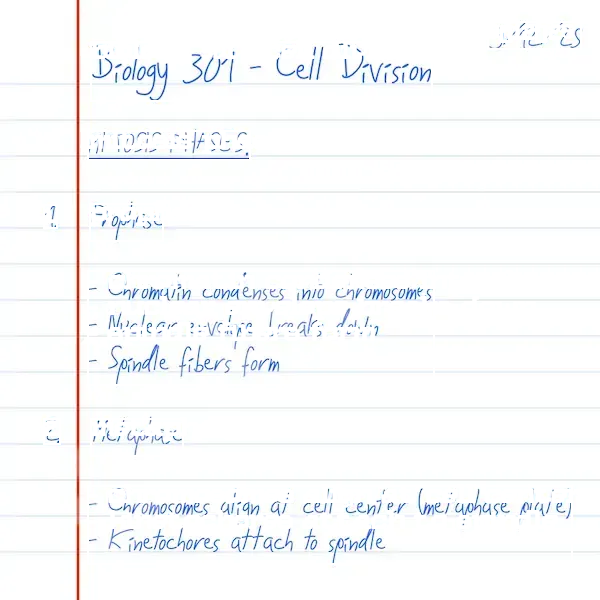
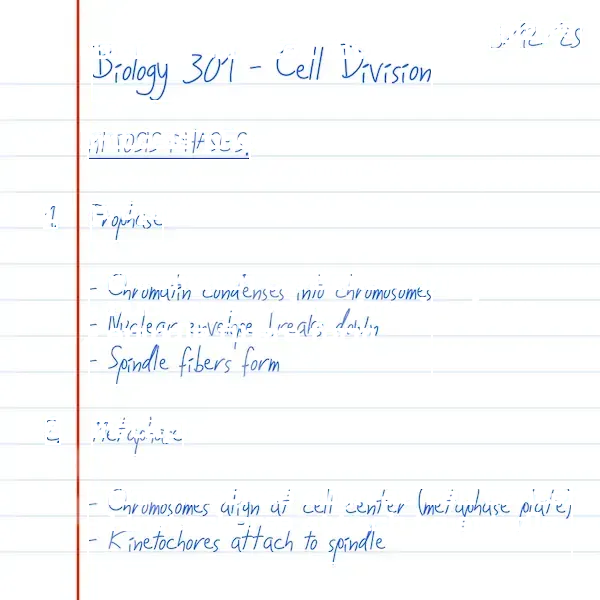
Added back some color

diff --git a/uiFiles/LoadingWindow.qml b/uiFiles/LoadingWindow.qml
@@ -23,4 +23,9 @@ Rectangle{
         colorizationColor:secondaryColor
         colorization:1
     }
+    AnimatedImage{
+        anchors.fill:parent
+        source:Qt.resolvedUrl("animationAssets/loadingOverlay.gif")
+        playing:busy
+    }
 }
